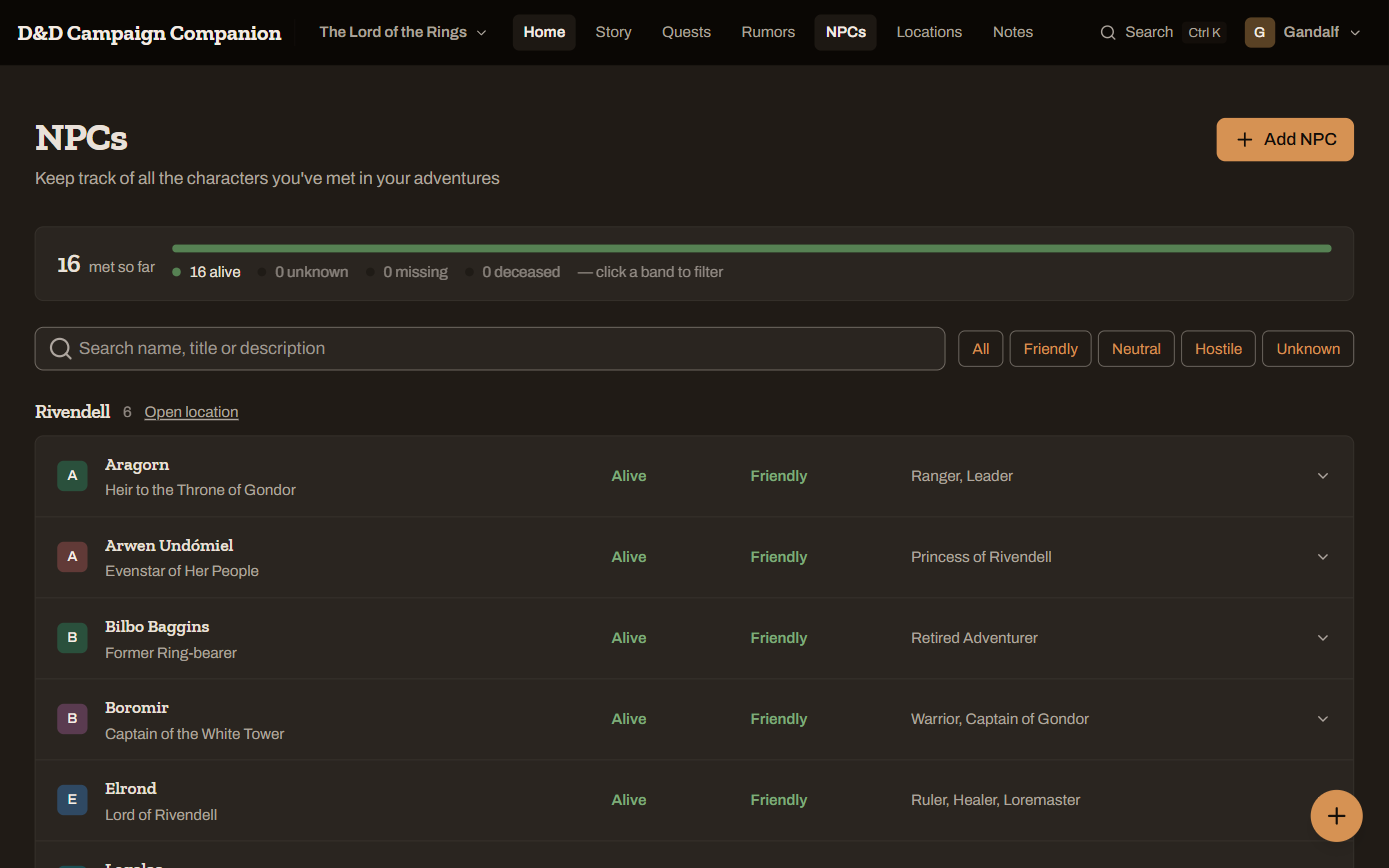
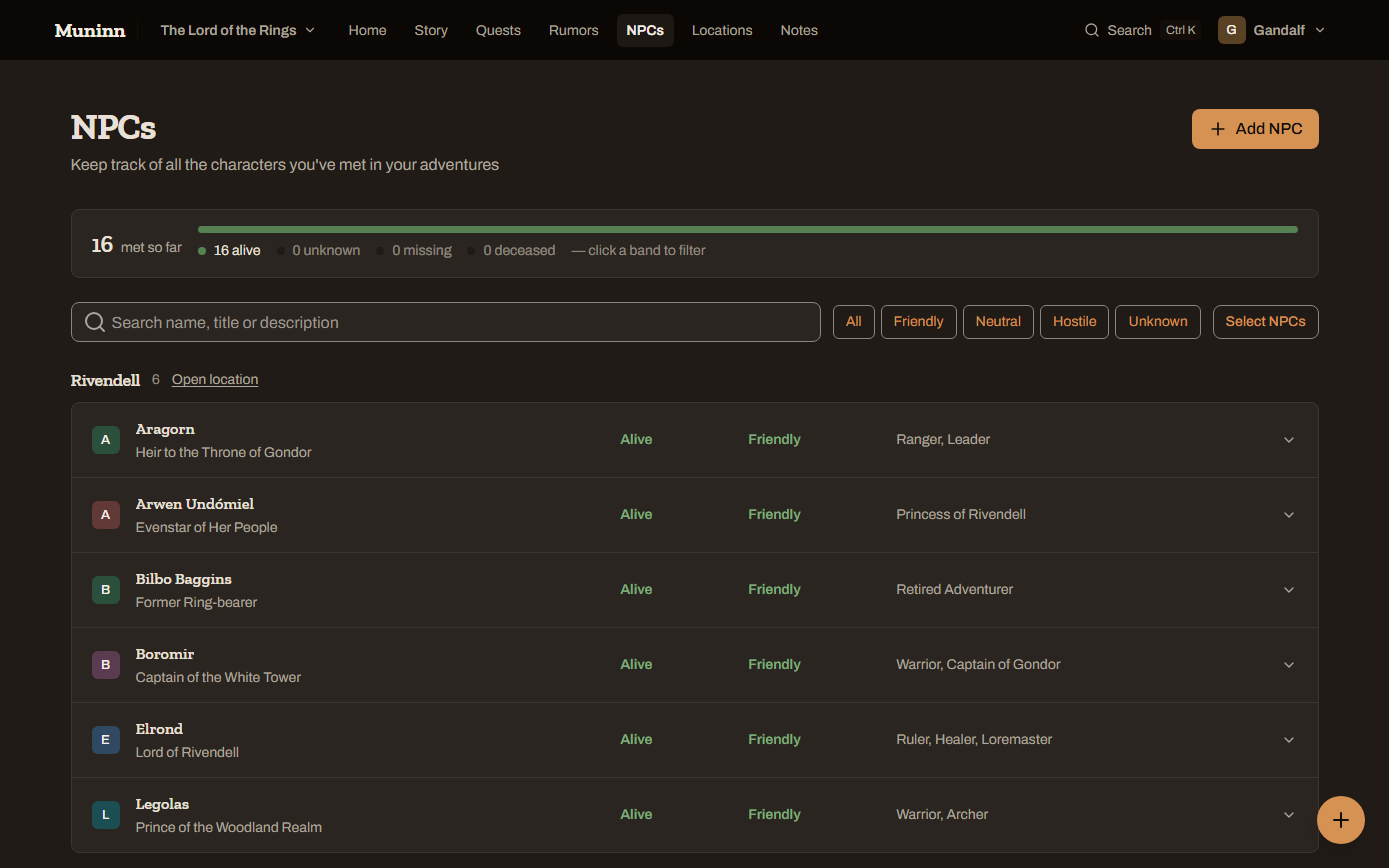
feat: call the site Muninn (T075)
The site drops "D&D" from its name and mentions D&D nowhere a user sees, as
decided on 2026-10-03 for Wizards of the Coast's trademarks. The maintainer
chose Muninn and checked it in TMview on 2026-10-07: the one Danish/EU holder
of MUNINN is a security and video software company, judged no overlap.

- The header, footer, sign-in page, join page, dashboard welcome, page title,
  manifest and the contact mail's subject and body now say Muninn.
- One word fits at every width, so the header's three-step title (and the
  `title` breakpoint that only it used) is gone.
- The tests that pinned the old name follow the changed requirement.
- README, AGENTS.md, CLAUDE.md and the docs drop the old name; the README's
  four screenshots are retaken.
- TODO.md: T075 now covers only the logo and the crowded header; T118 gets the
  order of the domain move; T104 is no longer waiting on the name.

Claude-Session: https://claude.ai/code/session_011heBtiyHT5vVW3o2SeHsqC

diff --git a/src/pages/layouts/dashboard/sections/__tests__/CampaignBanner.test.tsx b/src/pages/layouts/dashboard/sections/__tests__/CampaignBanner.test.tsx
@@ -115,7 +115,7 @@ describe("CampaignBanner", () => {
     it("shows the generic welcome heading", () => {
       render(<CampaignBanner />);
       expect(
-        screen.getByText("Welcome to D&D Campaign Companion")
+        screen.getByText("Welcome to Muninn")
       ).toBeInTheDocument();
     });
 
@@ -147,7 +147,7 @@ describe("CampaignBanner", () => {
     it("shows the generic welcome heading", () => {
       render(<CampaignBanner />);
       expect(
-        screen.getByText("Welcome to D&D Campaign Companion")
+        screen.getByText("Welcome to Muninn")
       ).toBeInTheDocument();
     });
 
@@ -196,7 +196,7 @@ describe("CampaignBanner", () => {
     it("does not show the generic welcome heading", () => {
       render(<CampaignBanner />);
       expect(
-        screen.queryByText("Welcome to D&D Campaign Companion")
+        screen.queryByText("Welcome to Muninn")
       ).not.toBeInTheDocument();
     });
 
@@ -307,7 +307,7 @@ describe("CampaignBanner", () => {
       });
       render(<CampaignBanner />);
       expect(
-        screen.getByText("Welcome to D&D Campaign Companion")
+        screen.getByText("Welcome to Muninn")
       ).toBeInTheDocument();
     });
 
@@ -320,7 +320,7 @@ describe("CampaignBanner", () => {
       });
       render(<CampaignBanner />);
       expect(
-        screen.getByText("Welcome to D&D Campaign Companion")
+        screen.getByText("Welcome to Muninn")
       ).toBeInTheDocument();
     });
   });

diff --git a/src/app/layout/Header.tsx b/src/app/layout/Header.tsx
@@ -85,8 +85,7 @@ const Header: React.FC = () => {
           {/* One bar carries branding, campaign context, navigation, search and
               account. This was three stacked layers — a header, a full-height
               navigation row, and a page-level view toggle — before any content. */}
-          {/* Shrink order on a phone: the title shortens by breakpoint (three
-              steps, below), and then only the campaign chip yields -- it
+          {/* Shrink order on a phone: only the campaign chip yields -- it
               truncates (`min-w-0` on its wrapper). The title, search and the
               account are `shrink-0`: until 2026-10 the title and the account
               both sat at `min-width: auto`, crushing the chip to its chevron
@@ -99,12 +98,10 @@ const Header: React.FC = () => {
               e.preventDefault();
               navigate('/');
               }}
-              aria-label="D&D Campaign Companion, home"
+              aria-label="Muninn, home"
               className="shrink-0 whitespace-nowrap text-xl font-bold header-title"
             >
-              <span className="title:inline hidden">D&D Campaign Companion</span>
-              <span className="hidden sm:inline title:hidden">D&D Companion</span>
-              <span className="sm:hidden">D&D</span>
+              Muninn
             </Link>
 
             {/* Campaign context, and the door onto changing it. Previously a

diff --git a/src/app/layout/__tests__/Header.test.tsx b/src/app/layout/__tests__/Header.test.tsx
@@ -215,17 +215,15 @@ describe("Header", () => {
 
     test("should render the app title link", () => {
       render(<Header />);
-      // Title uses responsive text — either "D&D Campaign Companion" or "D&D Companion"
-      const titleLink = screen.getByRole("link", { name: /D&D/i });
+      const titleLink = screen.getByRole("link", { name: /Muninn/i });
       expect(titleLink).toBeInTheDocument();
     });
 
-    // Below `sm` the visible title is just "D&D"; a screen reader still hears
-    // the whole name, whichever label the breakpoint shows.
-    test("names the whole site to a screen reader at every width", () => {
+    // The link says where it goes, not only the site's name.
+    test("names the site and its destination to a screen reader", () => {
       render(<Header />);
       expect(
-        screen.getByRole("link", { name: "D&D Campaign Companion, home" })
+        screen.getByRole("link", { name: "Muninn, home" })
       ).toBeInTheDocument();
     });
 
@@ -240,7 +238,7 @@ describe("Header", () => {
       });
       render(<Header />);
 
-      expect(screen.getByRole("link", { name: /D&D/ })).toHaveClass("shrink-0");
+      expect(screen.getByRole("link", { name: /Muninn/ })).toHaveClass("shrink-0");
     });
 
     // Successor to "should render the menu toggle button": the hamburger this

diff --git a/firebase/functions/src/contact.ts b/firebase/functions/src/contact.ts
@@ -329,7 +329,7 @@ export const sendContactEmail = functions.onCall(
       const reference = generateReference();
       const subjectLabel = composeSubjectLabel(category, sanitizedSubject);
       const emailSubject =
-        `[${reference}] D&D Campaign Companion: ${subjectLabel}`;
+        `[${reference}] Muninn: ${subjectLabel}`;
       const contextLines = formatContextLines(context);
       // Read after the rate limit, so a flood of calls can't each cost a
       // Storage download.
@@ -357,7 +357,7 @@ ${sanitizedReason ? `\nWhy they need more:\n${sanitizedReason}\n` : ""}
 ${contextLines.length ? `\nAttached context:\n${contextLines.join("\n")}\n` : ""}
 ${attachment ? `\nScreenshot: attached (${attachment.filename})\n` : ""}
 ---
-Sent via D&D Campaign Companion Contact Form
+Sent via Muninn Contact Form
 User ID: ${userId}
 Timestamp: ${new Date().toISOString()}
         `,
@@ -402,7 +402,7 @@ Timestamp: ${new Date().toISOString()}
 
   <hr style="margin: 30px 0; border: none; border-top: 1px solid #e5e7eb;">
   <p style="color: #6b7280; font-size: 12px;">
-    Sent via D&D Campaign Companion Contact Form<br>
+    Sent via Muninn Contact Form<br>
     User ID: ${userId}<br>
     Timestamp: ${new Date().toISOString()}
   </p>

diff --git a/tailwind.config.js b/tailwind.config.js
@@ -5,15 +5,14 @@ module.exports = {
   ],
   theme: {
     extend: {
-      // Named for what yields at them, because the header's shrink order is the
-      // point: the title shortens at `title`, the last two nav items fold at
-      // `nav`. Tailwind's defaults cannot express this -- the definition of done
-      // requires 1024px to be a *folded* width, which `lg` (>=1024) cannot be.
-      // Both control `display` on elements no `xl:` rule touches, so the
-      // append-after-defaults cascade order does not bite.
+      // Named for what yields at it, because the header's shrink order is the
+      // point: the last two nav items fold at `nav`. Tailwind's defaults cannot
+      // express this -- the definition of done requires 1024px to be a *folded*
+      // width, which `lg` (>=1024) cannot be. It controls `display` on elements
+      // no `xl:` rule touches, so the append-after-defaults cascade order does
+      // not bite.
       screens: {
         nav: "1080px",
-        title: "1200px",
       },
       colors: {
         // Only `accent` survives, and only because `ring-accent` is generated

diff --git a/index.html b/index.html
@@ -6,10 +6,10 @@
     <meta name="theme-color" content="#000000" />
     <meta
       name="description"
-      content="D&D Campaign Companion - Track your adventures, quests, and NPCs"
+      content="Muninn - Track your adventures, quests, and NPCs"
     />
     <link rel="manifest" href="/manifest.json" />
-    <title>D&D Campaign Companion</title>
+    <title>Muninn</title>
     <link rel="preconnect" href="https://fonts.googleapis.com">
     <link rel="preconnect" href="https://fonts.gstatic.com" crossorigin>
     <!-- The two families the colour schema names, and only those. Zilla Slab is

diff --git a/src/pages/layouts/dashboard/sections/CampaignBanner.tsx b/src/pages/layouts/dashboard/sections/CampaignBanner.tsx
@@ -97,7 +97,7 @@ const CampaignBanner: React.FC<CampaignBannerProps> = ({ chapterCount }) => {
       <div className={clsx(bandBleed, bandFrame)} data-testid="campaign-banner">
        <div className={bandInner}><div className={bandColumn}><div className={clsx(bandGutter, 'text-center')}>
         <Typography variant="h2" className="mb-2">
-          Welcome to D&D Campaign Companion
+          Welcome to Muninn
         </Typography>
         <Typography color="secondary">
           {!hasGroup

diff --git a/src/utils/__dev__/generateSampleData.ts b/src/utils/__dev__/generateSampleData.ts
@@ -2,7 +2,7 @@
 
 import { generateSampleData } from "./dndSampleDataGenerator";
 
-console.log('=== DnD Campaign Companion Sample Data Generator ===');
+console.log('=== Muninn Sample Data Generator ===');
 console.log('This will populate your Firebase emulator with interconnected sample data');
 console.log('including 2 groups, 4 campaigns, users, NPCs, locations, quests, rumors, etc.');
 console.log('Make sure your emulators are running first!');

diff --git a/src/features/user-management/groups/pages/JoinPage.tsx b/src/features/user-management/groups/pages/JoinPage.tsx
@@ -97,7 +97,7 @@ const JoinPage: React.FC = () => {
               invitation is confirmed instead, which is the fact that actually
               matters to the reader. */}
           <Typography variant="h1" className="mt-2 text-3xl sm:text-4xl">
-            A campaign in D&amp;D Campaign Companion
+            A campaign in Muninn
           </Typography>
         </div>
       </div>

diff --git a/src/utils/__dev__/dndSampleDataGenerator.ts b/src/utils/__dev__/dndSampleDataGenerator.ts
@@ -39,7 +39,7 @@ const initEmulatorConnection = () => {
 
 // Main function to generate sample data
 export const generateSampleData = async () => {
-  console.log('Starting sample data generation for D&D Campaign Companion...');
+  console.log('Starting sample data generation for Muninn...');
   
   try {
     const { db, auth } = initEmulatorConnection();

diff --git a/jest.config.ts b/jest.config.ts
@@ -116,7 +116,7 @@ const config: Config.InitialOptions = {
     [
       'jest-html-reporter',
       {
-        pageTitle: 'D&D Campaign Companion Test Report',
+        pageTitle: 'Muninn Test Report',
         outputPath: './test-reports/jest-html-report.html',
         includeFailureMsg: true,
         includeSuiteFailure: true,

diff --git a/jest.config.html.ts b/jest.config.html.ts
@@ -47,7 +47,7 @@ const config: Config.InitialOptions = {
     [
       'jest-html-reporter',
       {
-        pageTitle: 'D&D Campaign Companion Test Report',
+        pageTitle: 'Muninn Test Report',
         outputPath: './test-reports/jest-html-report.html',
         includeFailureMsg: true,
         includeSuiteFailure: true,
